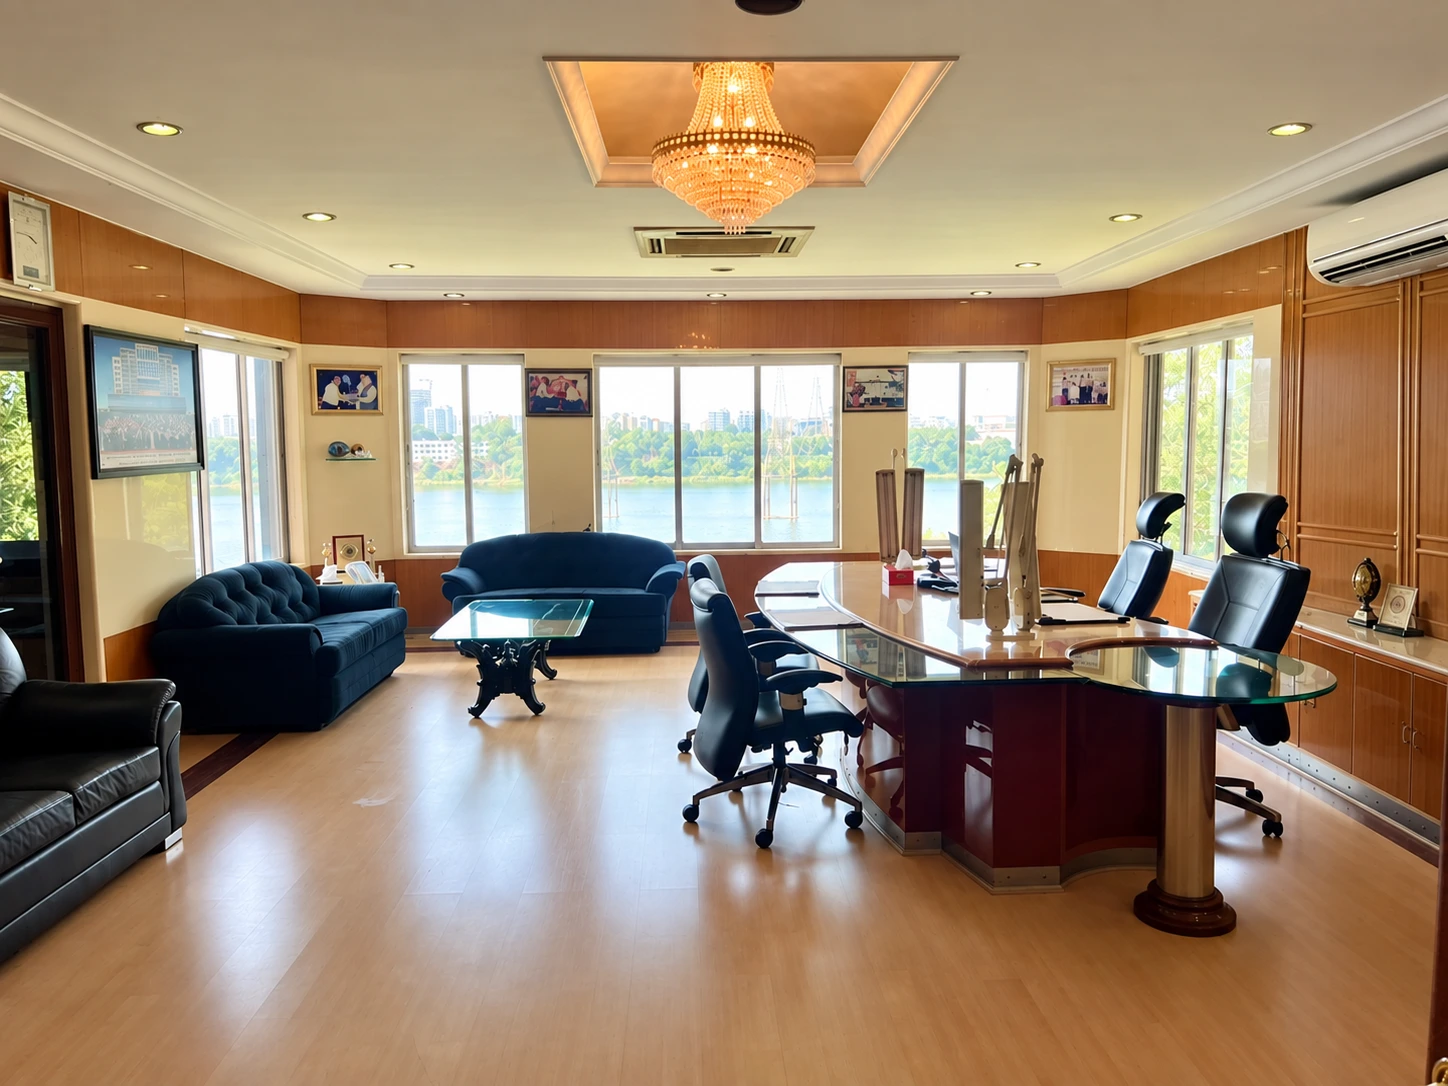
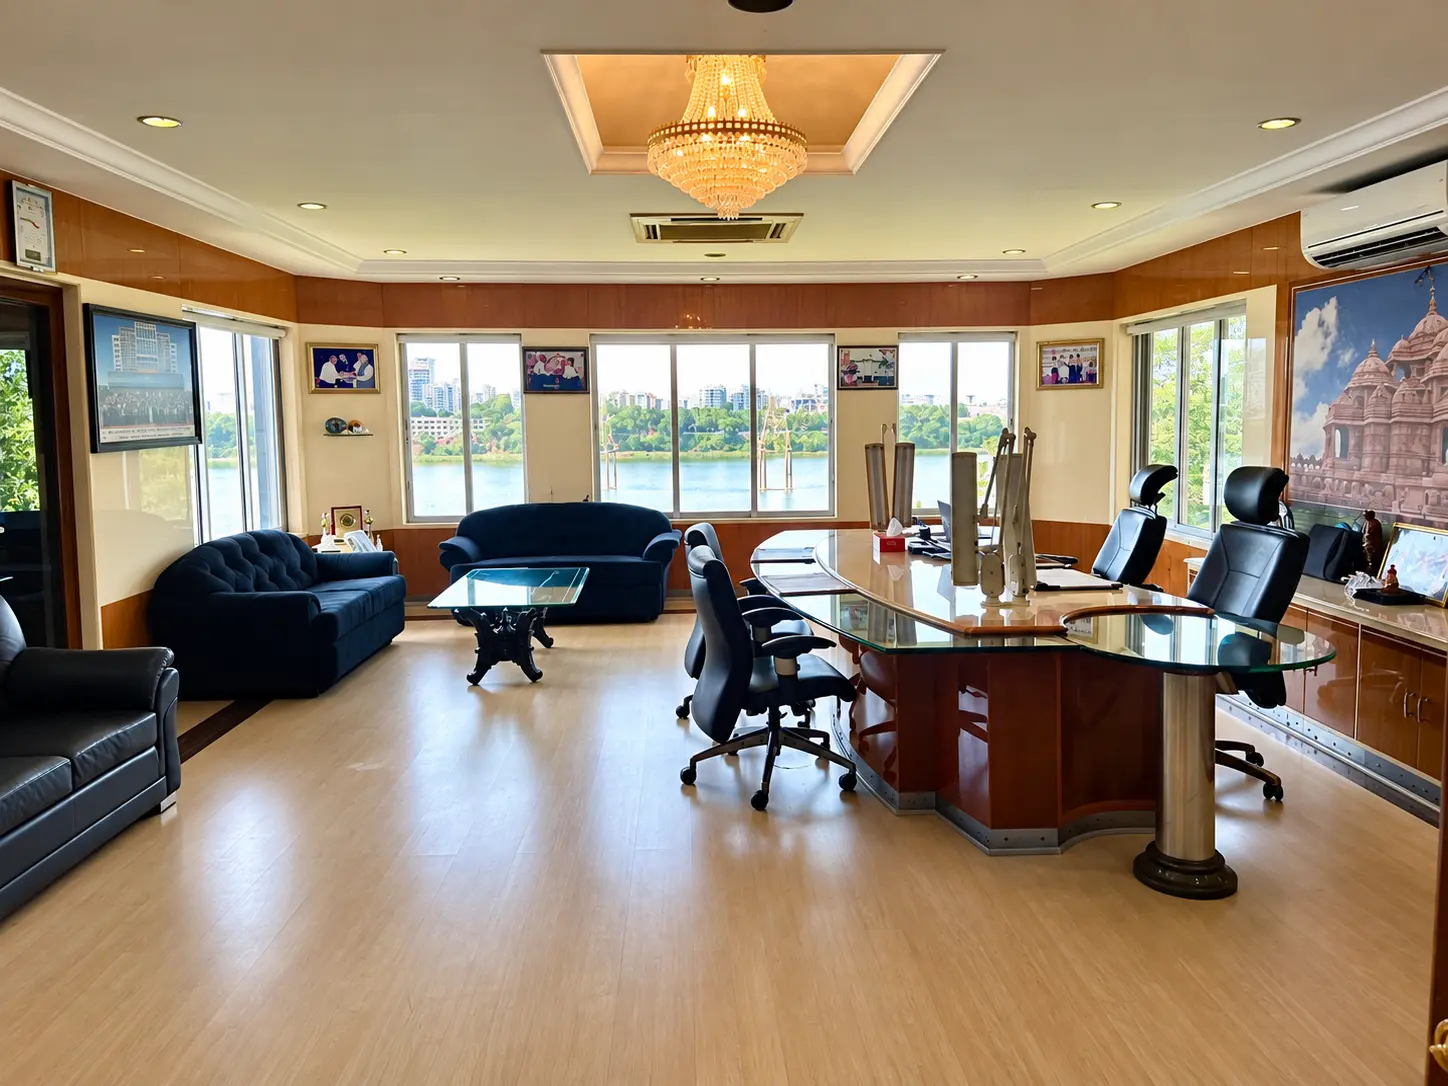
about hero update

diff --git a/components/AboutHero/AboutHero.module.css b/components/AboutHero/AboutHero.module.css
@@ -50,16 +50,13 @@
   }
 }
 
-/* Figma: linear-gradient(205.49deg, transparent 40.6%, #0009 74.4%) —
-   darkens the lower-left corner where the headline sits, leaving the
-   stone in the upper right untouched. */
 .scrim {
   position: absolute;
   inset: 0;
   background: linear-gradient(
     205.49deg,
-    rgba(0, 0, 0, 0) 40.64%,
-    rgba(0, 0, 0, 0.6) 74.38%
+    rgba(0, 0, 0, 0) 35%,
+    rgba(0, 0, 0, 0.42) 85%
   );
 }
 
@@ -154,8 +151,8 @@
   .scrim {
     background: linear-gradient(
       205.49deg,
-      rgba(0, 0, 0, 0.1) 24%,
-      rgba(0, 0, 0, 0.68) 72%
+      rgba(0, 0, 0, 0.06) 20%,
+      rgba(0, 0, 0, 0.5) 78%
     );
   }
 
